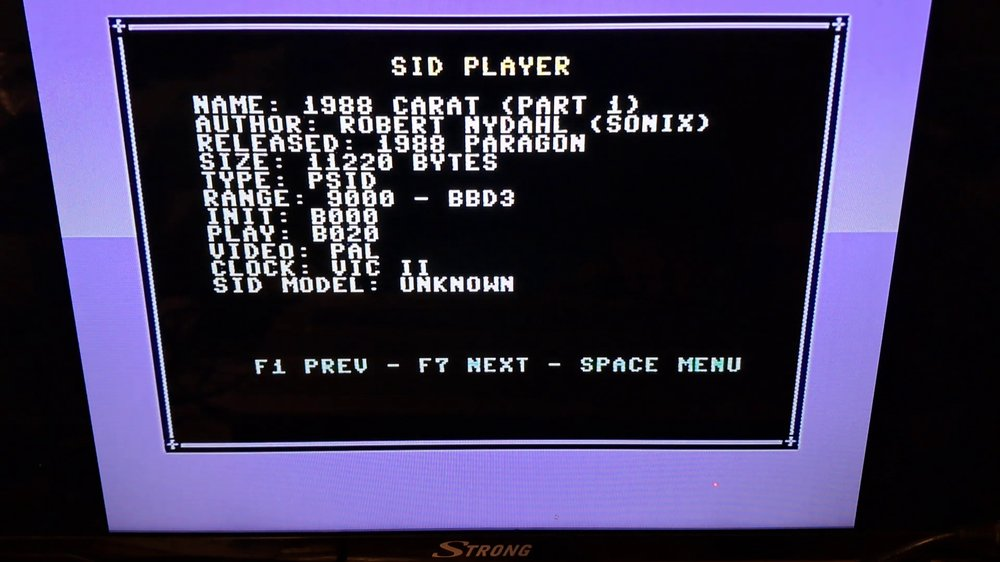
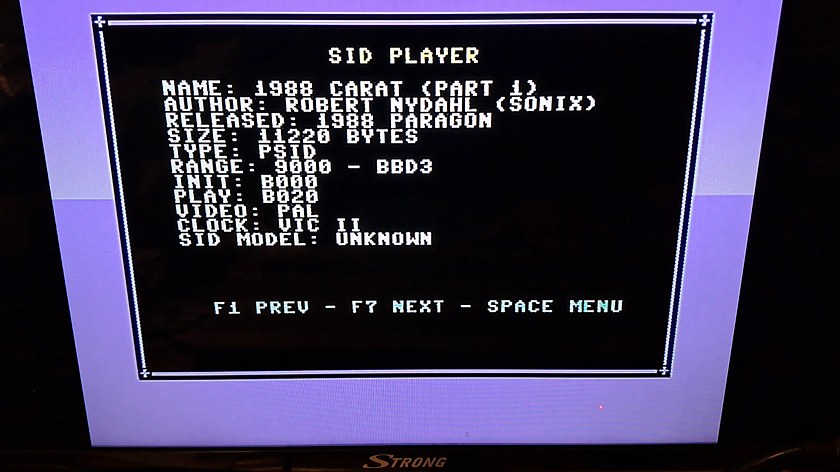
docs: borderless two-column screenshots and crisper captures
- Drop the HTML table: GitHub always draws borders around table cells, so the
  screenshot chapter now uses centred paragraphs with two images per row
  (420 px each) and a caption line under each pair. No borders, no table.
- Re-encode the eight captures at 840 px wide (exactly 2x the 420 px display
  width) with a light unsharp mask, so downscaling by the browser stays sharp
  instead of smearing the C64 glyphs.

diff --git a/README.md b/README.md
@@ -126,50 +126,40 @@ MAIN MENU
 ## Screenshots
 
 All pictures below are **real captures of the cartridge running on a C64**
-(VLC snapshots of the video output, scaled down to 1000 px wide).
+(VLC snapshots of the video output, saved at 840 px wide and shown at 420 px,
+two per row).
 
-<table>
-  <tr>
-    <td width="50%" align="center">
-      <img src="docs/screenshots/main.jpg" width="420" alt="main menu"><br>
-      <b>Main menu</b>
-    </td>
-    <td width="50%" align="center">
-      <img src="docs/screenshots/dir.jpg" width="420" alt="SD directory"><br>
-      <b>SD directory</b>
-    </td>
-  </tr>
-  <tr>
-    <td width="50%" align="center">
-      <img src="docs/screenshots/supermon.jpg" width="420" alt="supermon"><br>
-      <b>SUPERMON ($A000)</b>
-    </td>
-    <td width="50%" align="center">
-      <img src="docs/screenshots/news-src.jpg" width="420" alt="news source"><br>
-      <b>NEWS source selection</b>
-    </td>
-  </tr>
-  <tr>
-    <td width="50%" align="center">
-      <img src="docs/screenshots/news-bg.jpg" width="420" alt="news background"><br>
-      <b>NEWS background selection</b>
-    </td>
-    <td width="50%" align="center">
-      <img src="docs/screenshots/news-petscii.jpg" width="420" alt="news with PETSCII art"><br>
-      <b>NEWS with a PETSCII art background (SEQ art from /petscii-art)</b>
-    </td>
-  </tr>
-  <tr>
-    <td width="50%" align="center">
-      <img src="docs/screenshots/weather.jpg" width="420" alt="clock weather"><br>
-      <b>CLOCK / WEATHER</b>
-    </td>
-    <td width="50%" align="center">
-      <img src="docs/screenshots/sid.jpg" width="420" alt="sid player"><br>
-      <b>SID player</b>
-    </td>
-  </tr>
-</table>
+<p align="center">
+  <img src="docs/screenshots/main.jpg" width="420" alt="main menu">
+  &nbsp;&nbsp;
+  <img src="docs/screenshots/dir.jpg" width="420" alt="SD directory">
+</p>
+
+<p align="center"><sub><b>Main menu</b> (left) &nbsp;&middot;&nbsp; <b>SD directory</b> (right)</sub></p>
+
+<p align="center">
+  <img src="docs/screenshots/supermon.jpg" width="420" alt="supermon">
+  &nbsp;&nbsp;
+  <img src="docs/screenshots/news-src.jpg" width="420" alt="news source">
+</p>
+
+<p align="center"><sub><b>SUPERMON ($A000)</b> (left) &nbsp;&middot;&nbsp; <b>NEWS source selection</b> (right)</sub></p>
+
+<p align="center">
+  <img src="docs/screenshots/news-bg.jpg" width="420" alt="news background">
+  &nbsp;&nbsp;
+  <img src="docs/screenshots/news-petscii.jpg" width="420" alt="news with PETSCII art">
+</p>
+
+<p align="center"><sub><b>NEWS background selection</b> (left) &nbsp;&middot;&nbsp; <b>NEWS with a PETSCII art background</b> (right)</sub></p>
+
+<p align="center">
+  <img src="docs/screenshots/weather.jpg" width="420" alt="clock weather">
+  &nbsp;&nbsp;
+  <img src="docs/screenshots/sid.jpg" width="420" alt="sid player">
+</p>
+
+<p align="center"><sub><b>CLOCK / WEATHER</b> (left) &nbsp;&middot;&nbsp; <b>SID player</b> (right)</sub></p>
 
 > Missing a real photo for a screen? `tools/render_menu.py docs/renders`
 > writes fallback renders of the ESP32 templates (same texts, colours and
